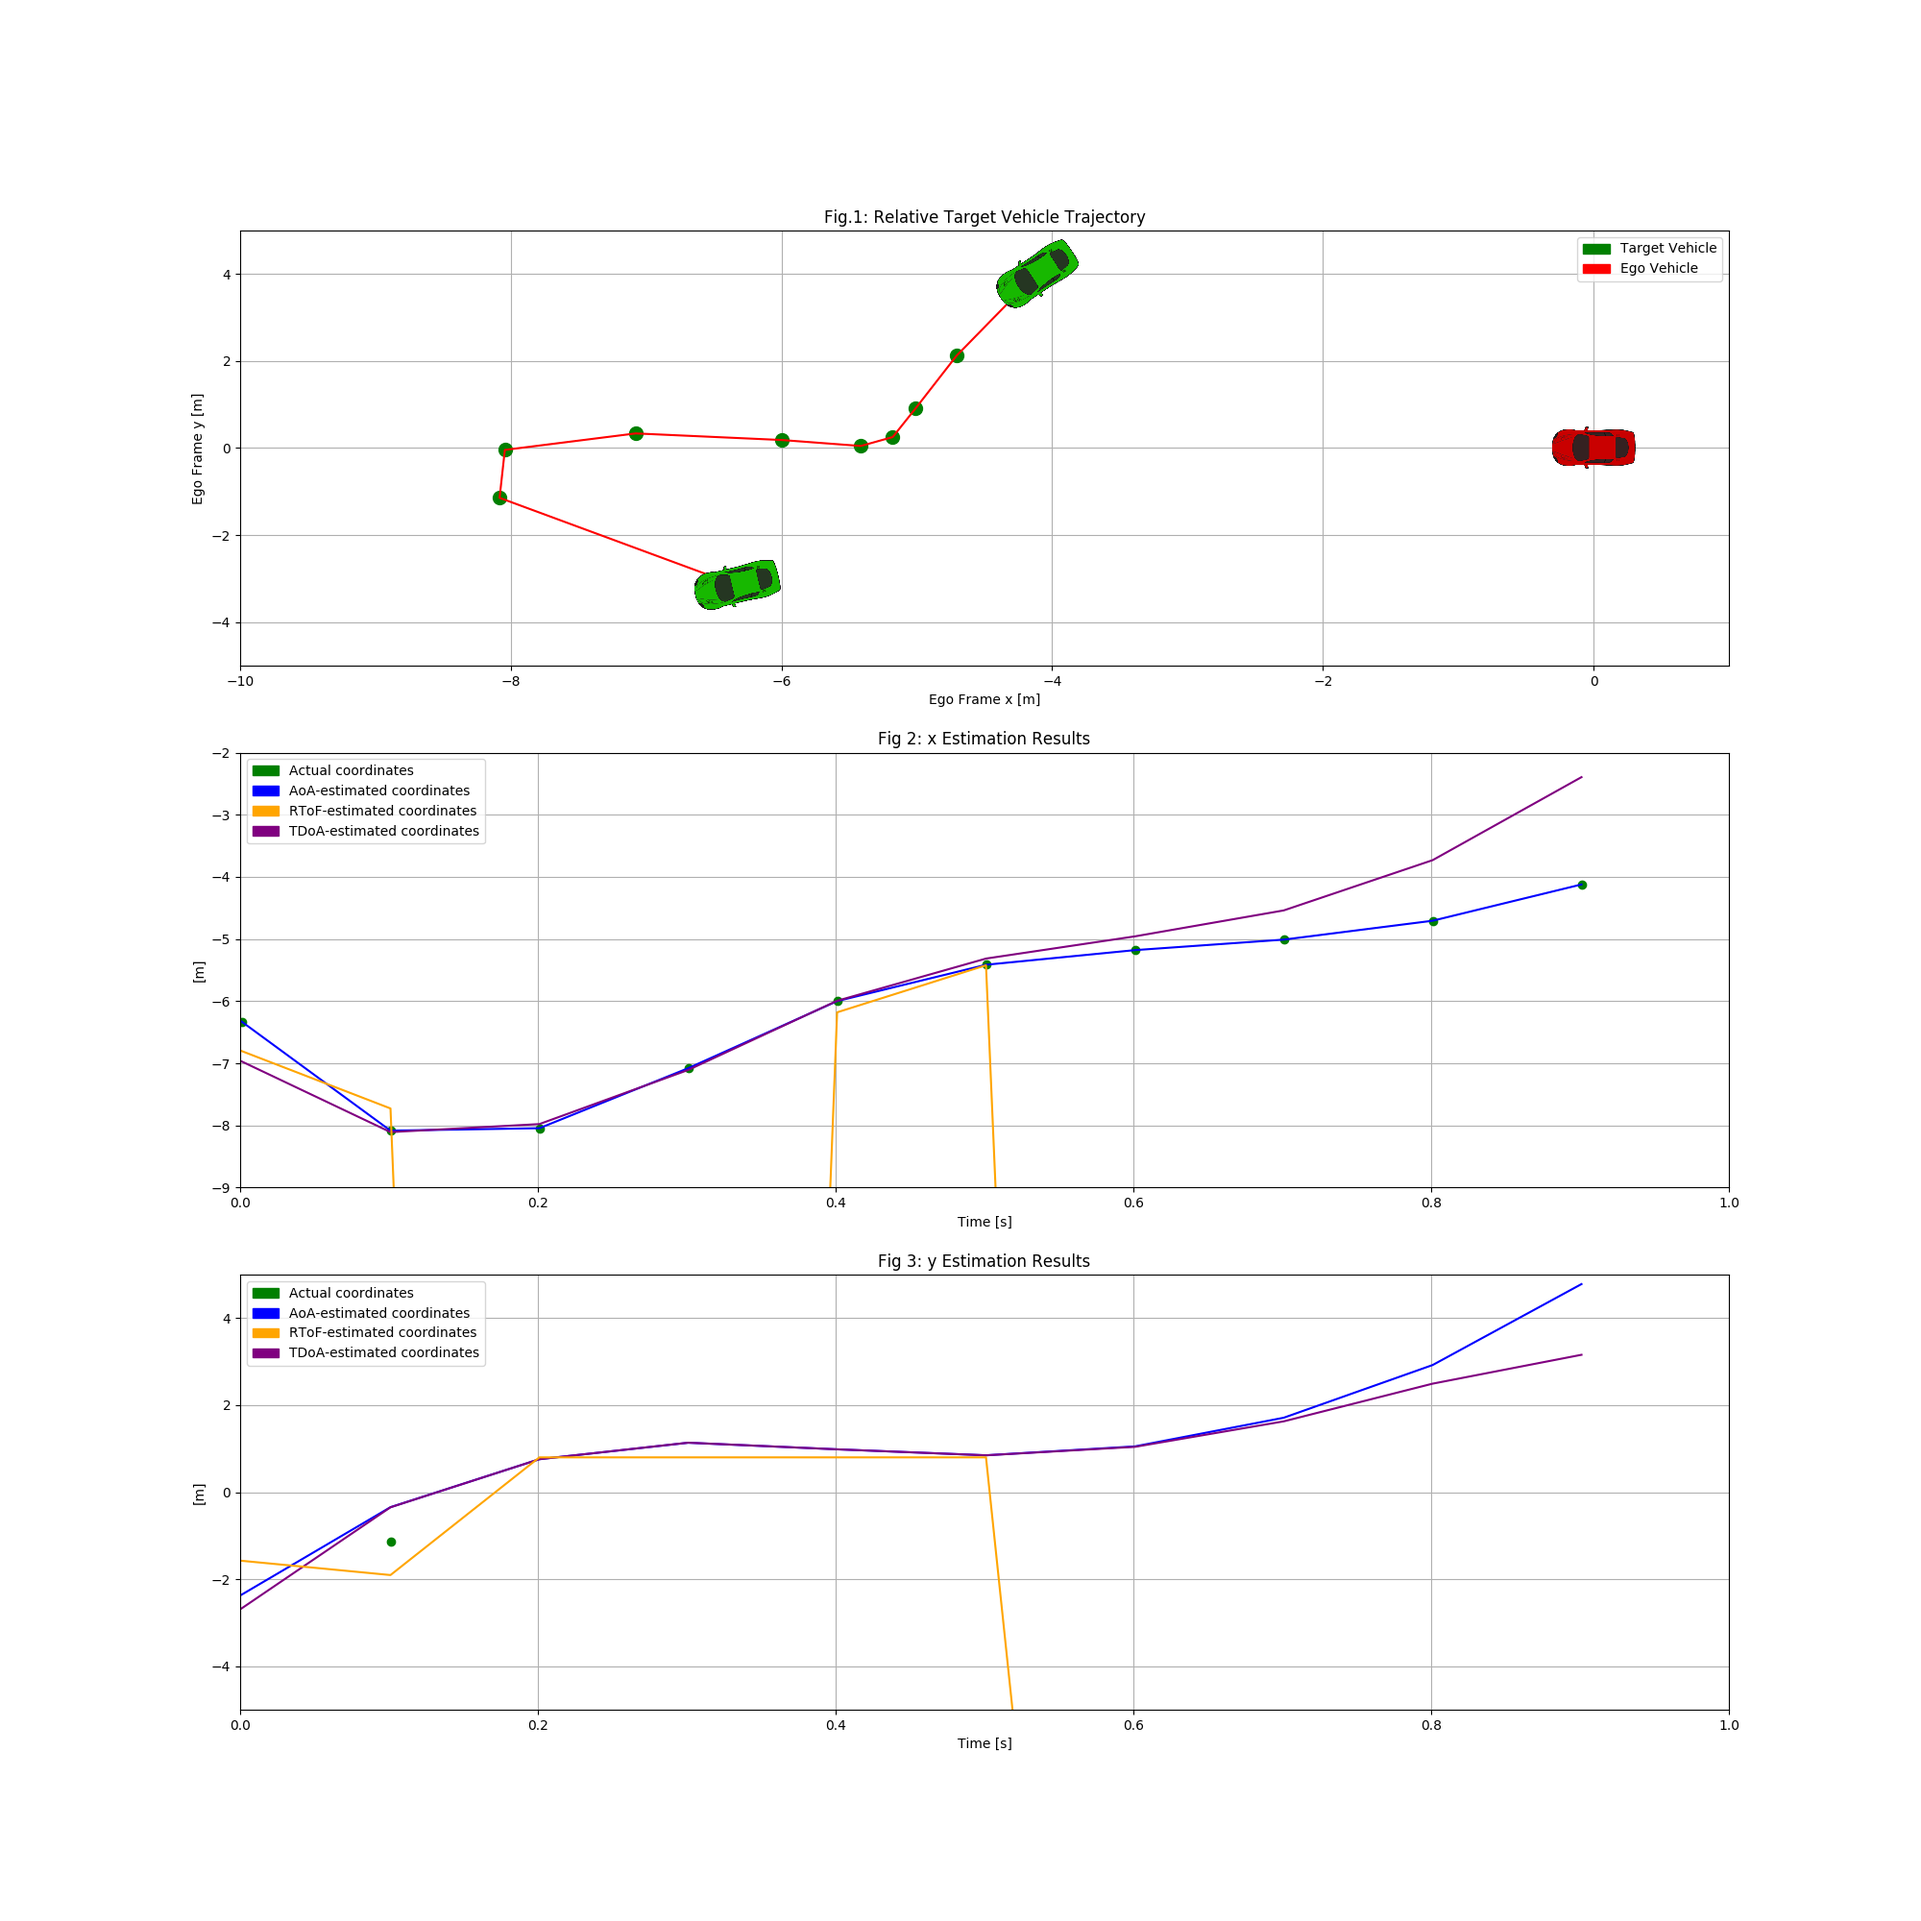
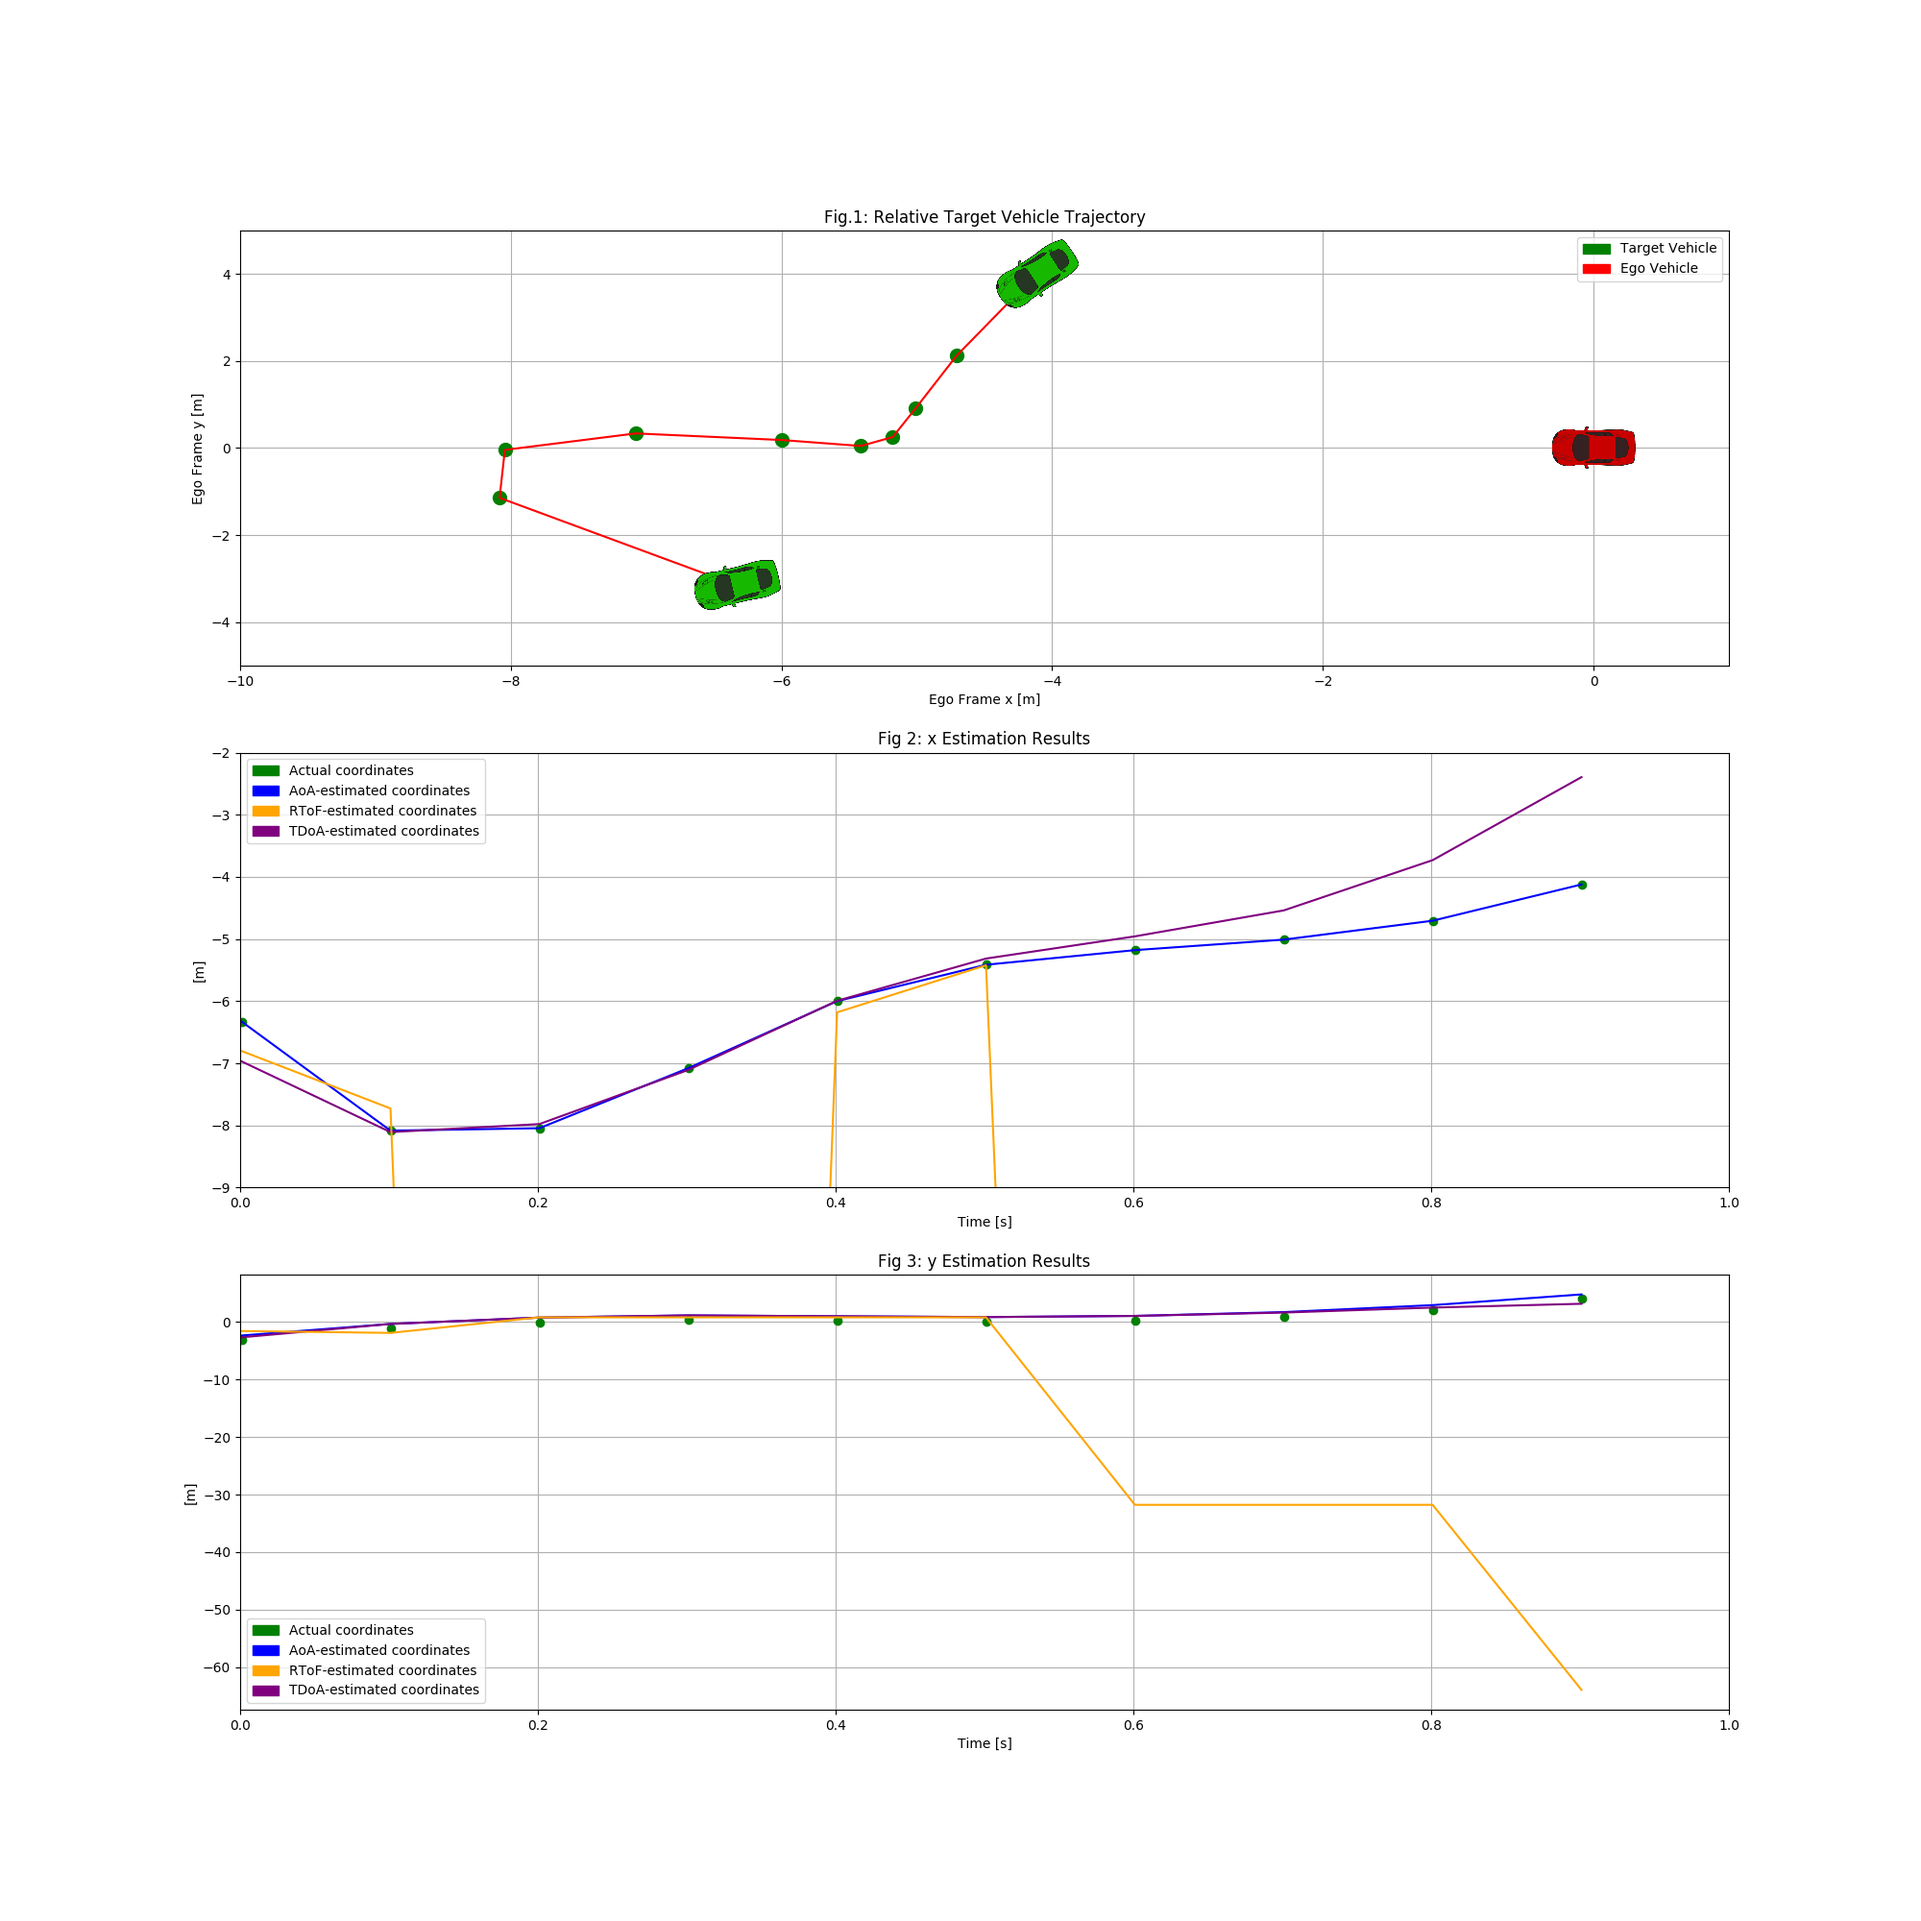
plot_simulation_data.py small change for plot y axis

diff --git a/plot_simulation_data.py b/plot_simulation_data.py
@@ -123,8 +123,7 @@ for i in range(len(sm)):
     ax2.legend(handles=[green_patch, blue_patch, orange_patch, purple_patch])
     ax2.title.set_text('Fig 2: x Estimation Results')
     ax3.title.set_text('Fig 3: y Estimation Results')
-    ax3.plot(time_[i], y[i, 0], 'o', color='green')
-
+    ax3.plot(time_, y[:, 0], 'o', color='green')
     ax3.plot(time_, y_pose[:, 0], '-', color='blue')
     ax3.plot(time_, y_roberts[:, 0], '-', color='purple')
     ax3.plot(time_, y_becha[:, 0], '-', color='orange')
@@ -137,8 +136,8 @@ for i in range(len(sm)):
         ax3.set_xlim(0, 1)
         ax3.set_ylim(-4,4)
     elif fl_name == '/2/':
-        ax3.set_xlim(0,1)
-        ax3.set_ylim(-5, 5)
+        ax3.set_xlim(0, 1)
+        #ax3.set_ylim(-4, 4)
     ax3.grid()
     green_patch = mpatches.Patch(color='green', label='Actual coordinates')
     blue_patch = mpatches.Patch(color='blue', label='AoA-estimated coordinates')
